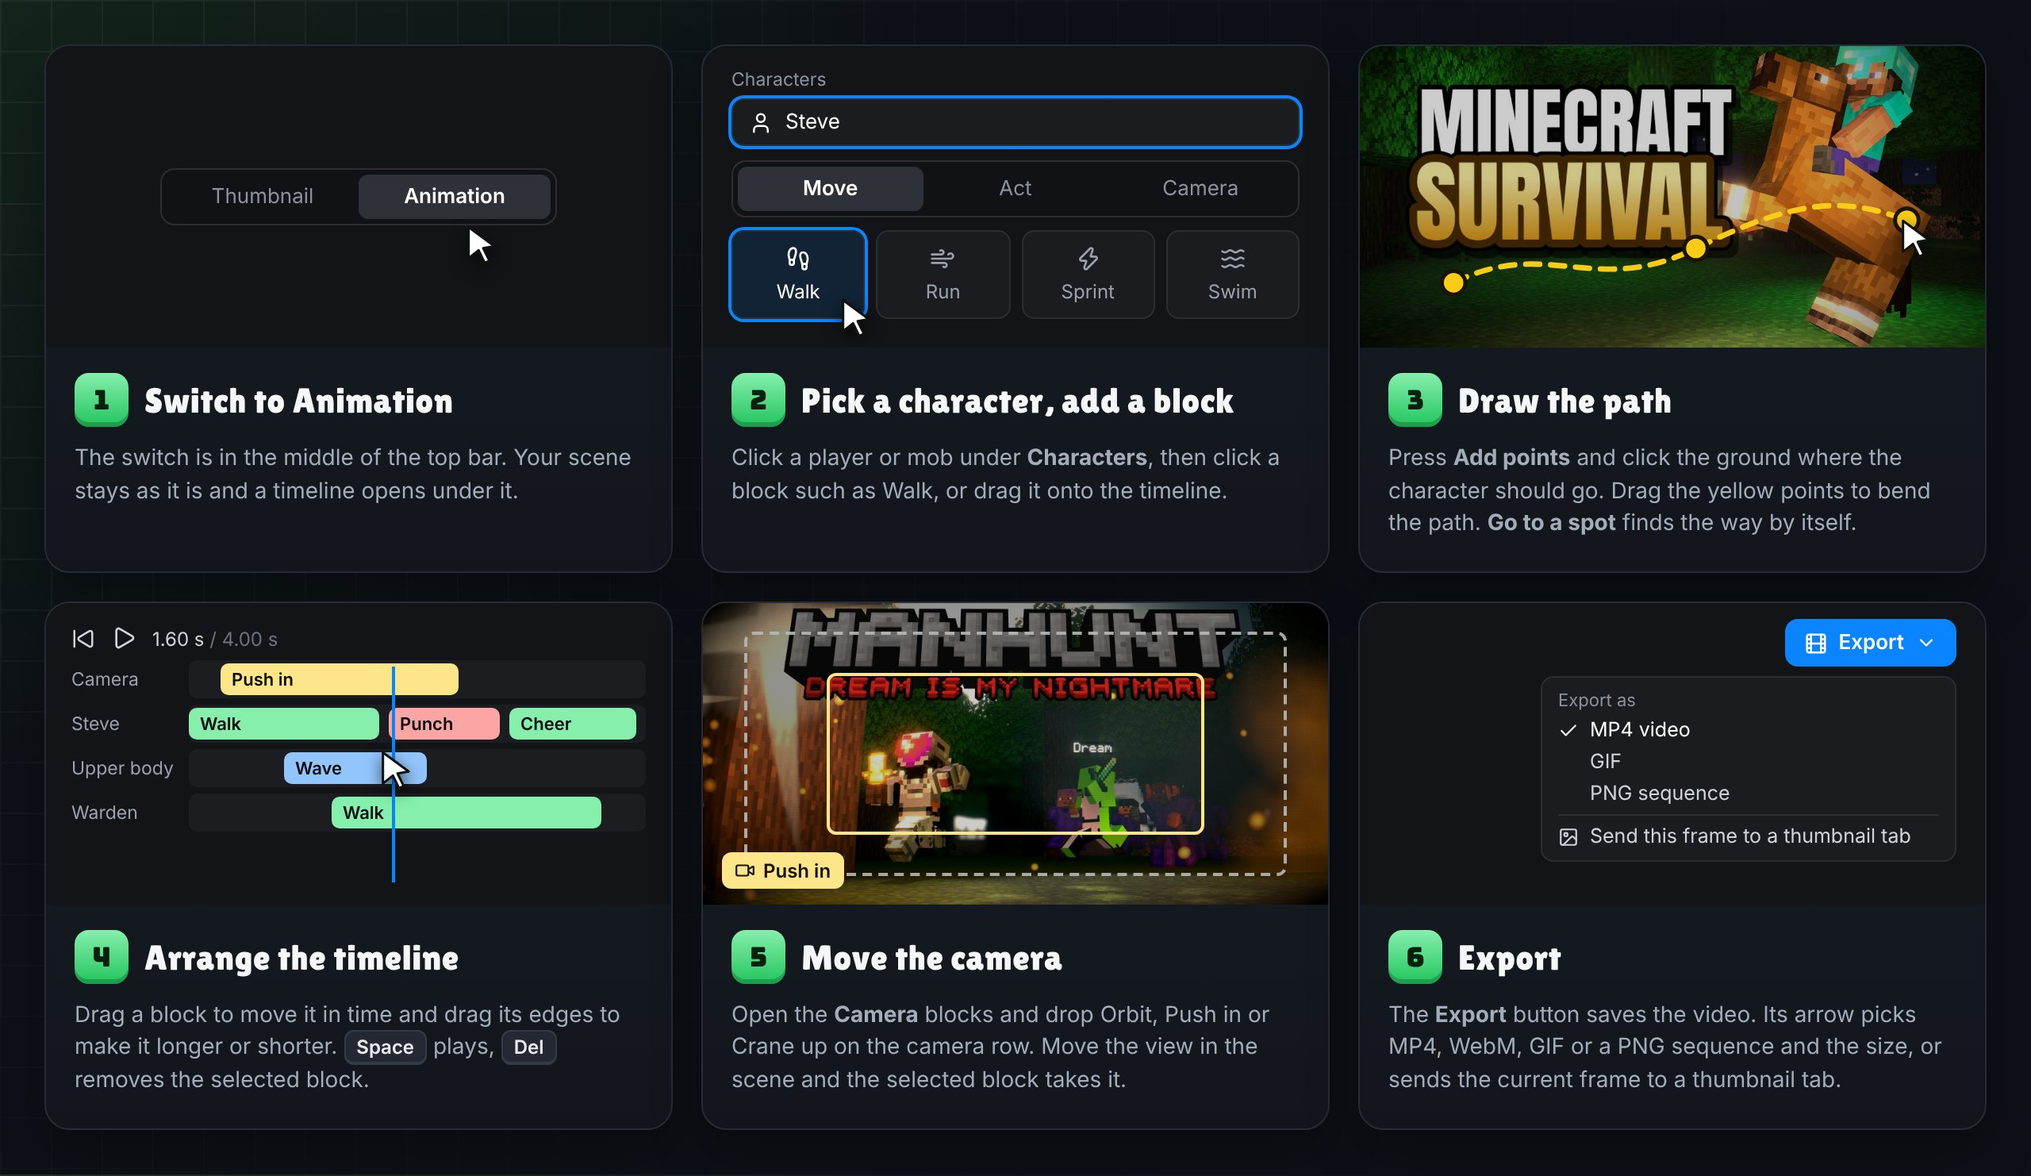
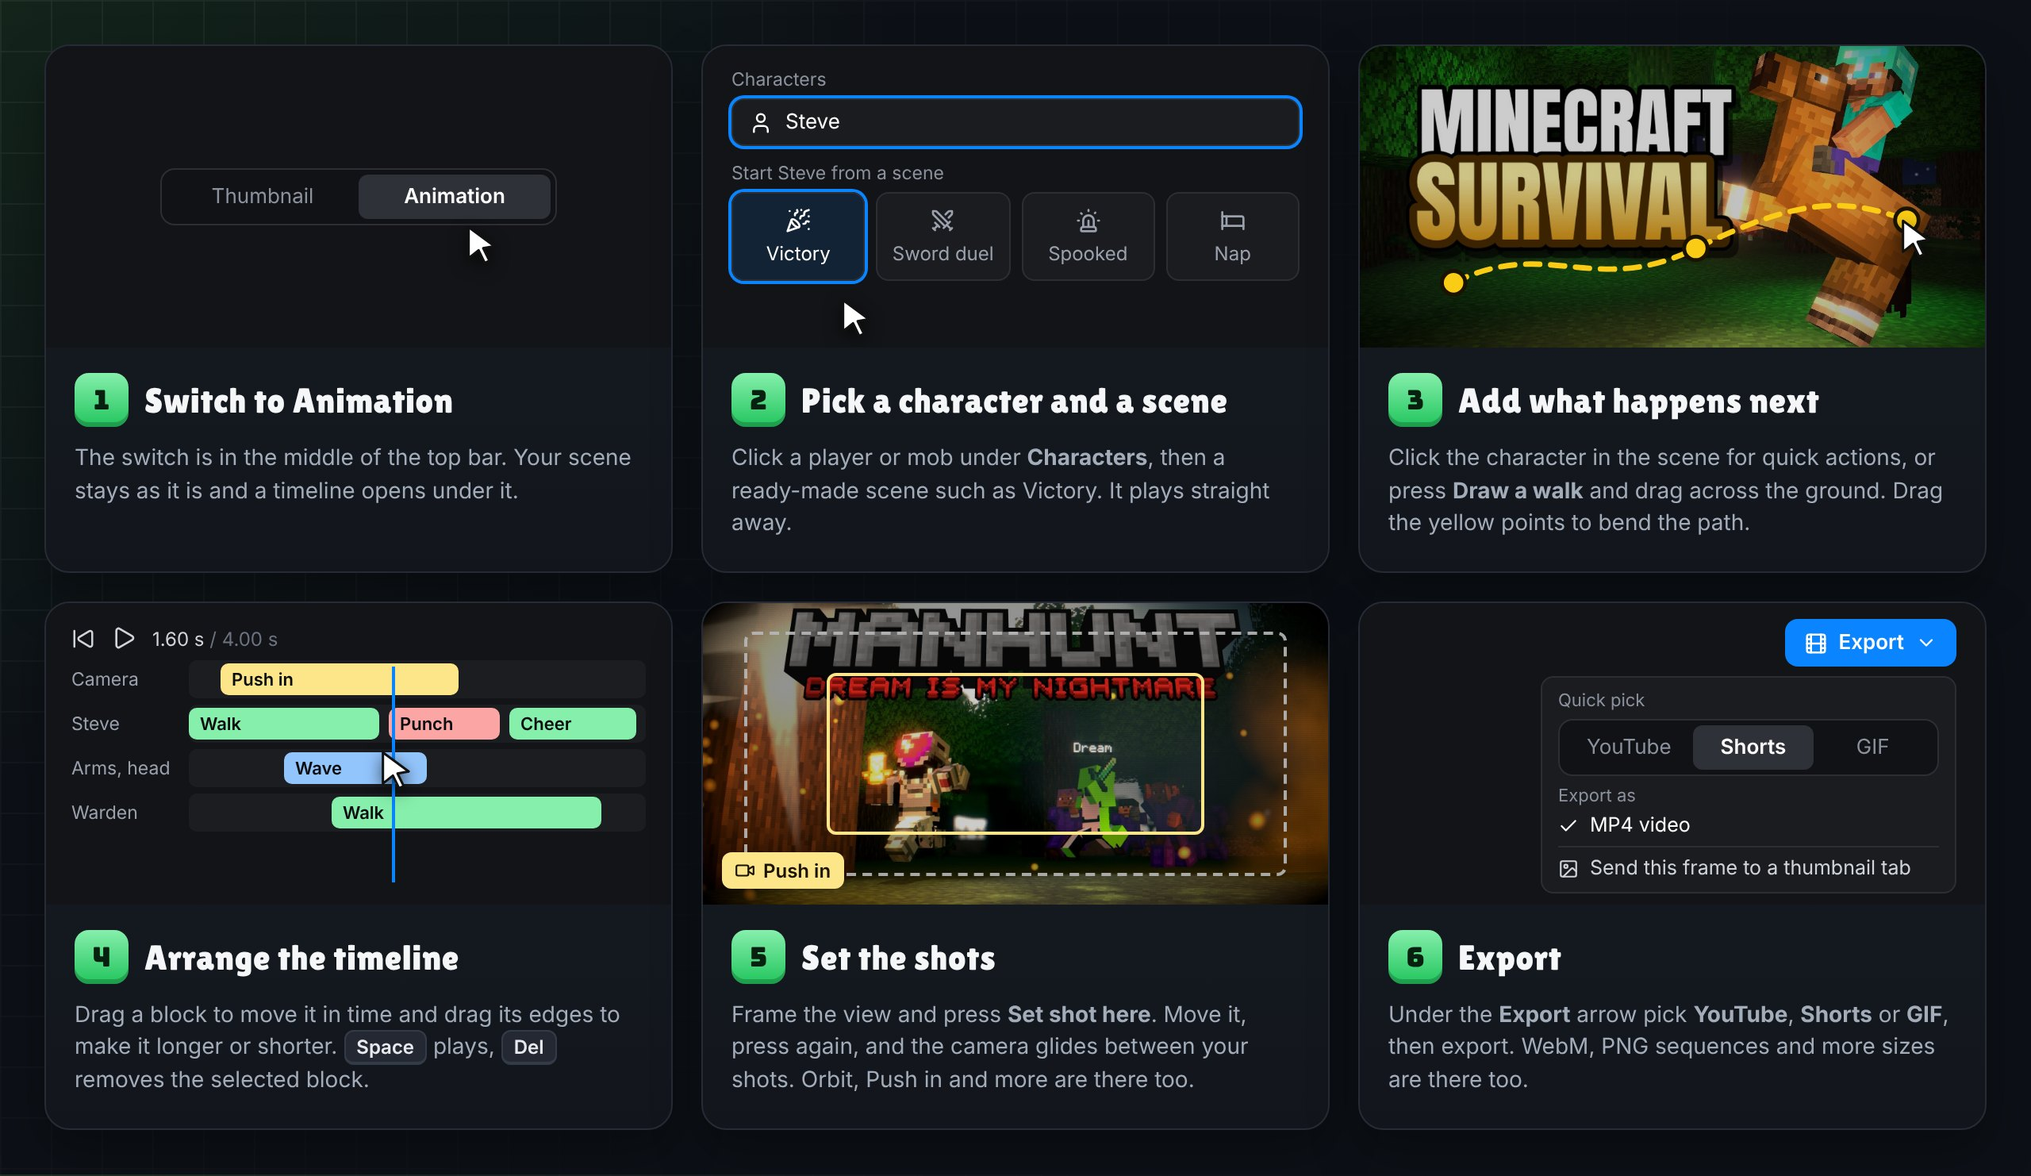
Re-audit: drop dead code and unused styles, share pointer rays, update the Animation guide
- walkKeys was a test-only wrapper (tests call locomotion); cleanSceneTracks now cleans scene tracks when a project opens instead of only running in tests
- Removed the old panel tab CSS (seg-wrap, segmented.tabs)
- One pointerRay helper and groundAt for every click and drag in the viewport
- Describe it understands lunges and spins
- README steps, feature list and the six-step graphic follow the new flow

Claude-Session: https://claude.ai/code/session_01Wm62j1Y5oFp5HGaYvJsiN2

diff --git a/src/renderer/src/components/Viewport.tsx b/src/renderer/src/components/Viewport.tsx
@@ -1273,6 +1273,17 @@ function IdleFrameloop(): null {
   return null
 }
 
+/** A ray from the camera through the pointer. */
+function pointerRay(e: MouseEvent, gl: THREE.WebGLRenderer, camera: THREE.Camera): THREE.Raycaster {
+  const rect = gl.domElement.getBoundingClientRect()
+  const r = new THREE.Raycaster()
+  r.setFromCamera(
+    new THREE.Vector2(((e.clientX - rect.left) / rect.width) * 2 - 1, -((e.clientY - rect.top) / rect.height) * 2 + 1),
+    camera
+  )
+  return r
+}
+
 /** The ground point under the pointer: the first thing hit that isn't `skip`, else the level `y`. */
 function groundAt(
   e: MouseEvent,
@@ -1281,12 +1292,7 @@ function groundAt(
   skip: string | null,
   y: number
 ): Vec3 | null {
-  const rect = gl.domElement.getBoundingClientRect()
-  const r = new THREE.Raycaster()
-  r.setFromCamera(
-    new THREE.Vector2(((e.clientX - rect.left) / rect.width) * 2 - 1, -((e.clientY - rect.top) / rect.height) * 2 + 1),
-    camera
-  )
+  const r = pointerRay(e, gl, camera)
   const targets: THREE.Object3D[] = []
   for (const [id, o] of viewport.objects) if (id !== skip && o.visible) targets.push(o)
   const hit = r.intersectObjects(targets, true).find((h) => {
@@ -1346,15 +1352,7 @@ function DrawAndRing(): ReactNode {
       const was = down.selected
       down = null
       // Which character is under the pointer, if any.
-      const rect = gl.domElement.getBoundingClientRect()
-      const r = new THREE.Raycaster()
-      r.setFromCamera(
-        new THREE.Vector2(
-          ((e.clientX - rect.left) / rect.width) * 2 - 1,
-          -((e.clientY - rect.top) / rect.height) * 2 + 1
-        ),
-        camera
-      )
+      const r = pointerRay(e, gl, camera)
       const people = useStore.getState().objects.filter(canWalk)
       let best: { id: string; d: number } | null = null
       for (const o of people) {
@@ -1438,18 +1436,7 @@ function AnimationPaths(): ReactNode {
     if (!clipId && !going) return
     const el = gl.domElement.closest('.viewport') as HTMLElement | null
     if (!el) return
-    const rayAt = (e: MouseEvent): THREE.Raycaster => {
-      const rect = gl.domElement.getBoundingClientRect()
-      const r = new THREE.Raycaster()
-      r.setFromCamera(
-        new THREE.Vector2(
-          ((e.clientX - rect.left) / rect.width) * 2 - 1,
-          -((e.clientY - rect.top) / rect.height) * 2 + 1
-        ),
-        camera
-      )
-      return r
-    }
+    const rayAt = (e: MouseEvent): THREE.Raycaster => pointerRay(e, gl, camera)
     const current = (): { objectId: string; points: Vec3[] } | null => {
       const sel = useAnim.getState().selectedClip
       const c = clipOf(sel)
@@ -1563,30 +1550,18 @@ function AnimationPaths(): ReactNode {
       // Not a selection click: the scene's own click handling never sees it.
       e.stopPropagation()
       if (!down || Math.hypot(e.clientX - down.x, e.clientY - down.y) > 4) return
-      const ray = rayAt(e)
       const owner = useAnim.getState().selectedClip?.objectId ?? useStore.getState().selectedId
-      const targets: THREE.Object3D[] = []
-      for (const [id, o] of viewport.objects) if (id !== owner && o.visible) targets.push(o)
-      const hit = ray.intersectObjects(targets, true).find((h) => {
-        for (let p: THREE.Object3D | null = h.object; p; p = p.parent) if (isHelperObject(p) || !p.visible) return false
-        return true
-      })
-      let point = hit?.point
-      if (!point) {
-        // Nothing there: the level the character stands on.
-        const level = current()?.points.at(-1)?.[1] ?? 0
-        point =
-          ray.ray.intersectPlane(new THREE.Plane(new THREE.Vector3(0, 1, 0), -level), new THREE.Vector3()) ?? undefined
-      }
+      // Nothing there: the level the character stands on.
+      const point = groundAt(e, gl, camera, owner, current()?.points.at(-1)?.[1] ?? 0)
       if (point && sending) {
         const who = useStore.getState().selectedId
         useAnim.setState({ goingTo: false })
-        if (who) goTo(who, [point.x, point.y, point.z])
+        if (who) goTo(who, point)
       } else if (point && picking) {
         const sel = useAnim.getState().selectedClip
-        if (sel) setClipReach(sel.objectId, sel.clipId, { target: [point.x, point.y, point.z] })
+        if (sel) setClipReach(sel.objectId, sel.clipId, { target: point })
         useAnim.setState({ pickingTarget: false })
-      } else if (point) addClipPoint([point.x, point.y, point.z])
+      } else if (point) addClipPoint(point)
     }
     el.addEventListener('pointerdown', onDown, true)
     el.addEventListener('click', onClick, true)

diff --git a/tests/animation.test.ts b/tests/animation.test.ts
@@ -21,7 +21,7 @@ import {
   putKey,
   sampleTrack,
   strideOf,
-  walkKeys,
+  locomotion,
   type AnimKey
 } from '@shared/animation'
 import { POSES, fullPose } from '@shared/minecraft/playerModel'
@@ -94,7 +94,7 @@ describe('gaits', () => {
   })
 })
 
-describe('walkKeys', () => {
+describe('locomotion', () => {
   const path = {
     points: [
       [0, 64, 0],
@@ -105,7 +105,7 @@ describe('walkKeys', () => {
     speed: 1,
     start: 0.5
   }
-  const keys = walkKeys(path, { kind: 'player', scale: 1, rotation: [0, 0, 0], pose: POSES.Standing })
+  const keys = locomotion(path, { kind: 'player', scale: 1, rotation: [0, 0, 0], pose: POSES.Standing }).keys
 
   it('starts at the start, ends at the end, standing still both times', () => {
     expect(keys[0].t).toBe(0.5)
@@ -130,7 +130,7 @@ describe('walkKeys', () => {
     expect(keys.at(-1)!.rotation[1]).toBeLessThan(60)
   })
   it('never moves backwards along a straight path', () => {
-    const straight = walkKeys(
+    const straight = locomotion(
       {
         ...path,
         points: [
@@ -145,7 +145,7 @@ describe('walkKeys', () => {
         rotation: [0, 0, 0],
         pose: POSES.Standing
       }
-    )
+    ).keys
     const track = { objectId: 'a', keys: straight }
     let last = -1
     for (let t = 0; t < straight.at(-1)!.t; t += 1 / 30) {
@@ -155,7 +155,7 @@ describe('walkKeys', () => {
     }
   })
   it('handles a path too short to reach full speed', () => {
-    const short = walkKeys(
+    const short = locomotion(
       {
         ...path,
         points: [
@@ -165,7 +165,7 @@ describe('walkKeys', () => {
         gait: 'sprint'
       },
       { kind: 'mob', scale: 1, rotation: [0, 0, 0] }
-    )
+    ).keys
     expect(short.at(-1)!.position[2]).toBeCloseTo(0.5, 2)
     expect(short.every((k) => Number.isFinite(k.t))).toBe(true)
   })

diff --git a/src/renderer/src/project.ts b/src/renderer/src/project.ts
@@ -3,6 +3,7 @@
 import { strFromU8, strToU8, unzipSync, zipSync } from 'fflate'
 import * as THREE from 'three'
 import { fullPose } from '@shared/minecraft/playerModel'
+import { cleanSceneTracks } from '@shared/sceneTracks'
 import type { TerrainData } from '@shared/types'
 import { viewport } from './components/Viewport'
 import { currentLookId } from './grading'
@@ -208,6 +209,9 @@ export function loadProject(bytes: Uint8Array, path: string | null): OpenedProje
   const { skyColor: legacySkyColor, ...settings } = json.settings as SceneSettings & { skyColor?: string | null }
   // The Vivid render mode became Painterly, which became Cartoon.
   if (['vivid', 'painterly'].includes(settings.renderMode as string)) settings.renderMode = 'cartoon'
+  // Scene tracks from a project made elsewhere (or an older save) keep only what still makes sense.
+  if (settings.animation?.scene)
+    settings.animation = { ...settings.animation, scene: cleanSceneTracks(settings.animation.scene) }
   useStore.setState({
     objects,
     selectedId: null,

diff --git a/src/shared/script.ts b/src/shared/script.ts
@@ -33,6 +33,8 @@ const ACTIONS: [RegExp, ClipType][] = [
   [/\b(panic(s|ked|king)?|freak(s|ed)?( out)?|scream(s|ed)?|flail(s|ed)?|screams?)\b/, 'panic'],
   [/\b(cower(s|ed|ing)?|hid(e|es)|ducks?|tremble[sd]?|shiver(s|ed)?|cringe[sd]?)\b/, 'cower'],
   [/\b(facepalm(s|ed)?|face-palm(s|ed)?)\b/, 'facepalm'],
+  [/\b(lunge[sd]?|lunging|pounce[sd]?|charge[sd]? at)\b/, 'lunge'],
+  [/\b(spin(s|ning)?|spun|twirl(s|ed)?|turns? (all the way )?around)\b/, 'spin'],
   [/\b(punch(es|ed|ing)?|jab(s|bed)?|fight(s|ing)?|box(es|ed)?)\b/, 'punch'],
   [
     /\b(slash(es|ed|ing)?|swing(s|ing)? (a |his |her |their |the )?(sword|blade|axe)|swung|attack(s|ed|ing)?|strikes?)\b/,

diff --git a/src/shared/animation.ts b/src/shared/animation.ts
@@ -679,10 +679,6 @@ export interface LocomotionResult {
  * slows to a stop in the pose it started in. Keys fall on every quarter step (contact, passing…), which is enough
  * for the smooth playback between them to reproduce the cycle, and are easy to adjust by hand afterwards.
  */
-export function walkKeys(path: AnimPath, who: WalkSubject): AnimKey[] {
-  return locomotion(path, who).keys
-}
-
 export function locomotion(path: AnimPath, who: WalkSubject): LocomotionResult {
   const g = GAITS[path.gait]
   const curve = new PathCurve(path.points)

diff --git a/tests/script.test.ts b/tests/script.test.ts
@@ -49,3 +49,10 @@ describe('parseScript', () => {
     expect(unknown).toEqual(['contemplates the void'])
   })
 })
+
+describe('new actions in a description', () => {
+  it('reads lunges and spins', () => {
+    const r = parseScript('Alex lunges, then spins', { characters: ['Alex'], places: [] })
+    expect(r.steps.map((s) => (s.kind === 'clip' ? s.type : s.kind))).toEqual(['lunge', 'spin'])
+  })
+})

diff --git a/src/renderer/src/styles.css b/src/renderer/src/styles.css
@@ -5343,18 +5343,6 @@ button {
   text-transform: none;
   color: var(--text-2);
 }
-.animate-panel .seg-wrap {
-  position: sticky;
-  top: 0;
-  z-index: 2;
-  padding: 2px 0;
-  background: var(--bg-panel);
-}
-.animate-panel .segmented.tabs button {
-  font-size: 12px;
-  padding: 6px 4px;
-  white-space: nowrap;
-}
 .animate-panel .anim-characters {
   gap: 0;
   border-radius: 12px;

diff --git a/docs/FEATURES.md b/docs/FEATURES.md
@@ -4,7 +4,7 @@
 
 | Area                   | What works                                                                                                                                                                                                                                                                                                                                                                                                                                                                                                                                                                                                                                                                                                                                         |
 | ---------------------- | -------------------------------------------------------------------------------------------------------------------------------------------------------------------------------------------------------------------------------------------------------------------------------------------------------------------------------------------------------------------------------------------------------------------------------------------------------------------------------------------------------------------------------------------------------------------------------------------------------------------------------------------------------------------------------------------------------------------------------------------------- |
-| **Animation (beta)**   | A timeline over the scene: walk, run, sprint and action blocks along paths (with pathfinding), camera moves, changes to the sun, weather, look and titles over time, sound with beat markers, presets (`.thumbpack`), Blockbench import and glTF export. Exports MP4/WebM, GIF, PNG sequences and characters on a transparent background, with motion blur.                                                                                                                                                                                                                                                                                                                                                                                        |
+| **Animation (beta)**   | A timeline over the scene: ready-made scene starters, walk, run, sprint and action blocks along drawn paths (with pathfinding), Pose blocks that hold, quick actions on a click, camera moves and shots you set, changes to the sun, weather, look and titles over time, sound with beat markers, presets (`.thumbpack`), Blockbench import and glTF export. Exports MP4/WebM, GIF, PNG sequences and characters on a transparent background, with motion blur.                                                                                                                                                                                                                                                                                    |
 | **Resource packs**     | Zip or folder packs stacked over the game's textures and models, top pack first.                                                                                                                                                                                                                                                                                                                                                                                                                                                                                                                                                                                                                                                                   |
 | **Photoshop export**   | A layered `.psd`: sky, terrain, and each build, mob, player, title and sticker on its own layer, in folders by kind. Layers are rendered with effects off; each effect has its own folder with its light on an Add layer, so hiding it takes its glow off everything.                                                                                                                                                                                                                                                                                                                                                                                                                                                                              |
 | **Biome scenes**       | Pick a dimension (Overworld / Nether / End) and any biome from your game version, optionally a seed and an area size, and generate.                                                                                                                                                                                                                                                                                                                                                                                                                                                                                                                                                                                                                |

diff --git a/README.md b/README.md
@@ -86,27 +86,29 @@ Switch from **Thumbnail** to **Animation** in the top bar and the same scene get
 
 ### How it works
 
-![Six steps: 1. Switch to Animation in the top bar. 2. Pick a character and add a block such as Walk. 3. Draw the path by clicking the ground. 4. Arrange the blocks on the timeline. 5. Move the camera with camera blocks. 6. Export a video.](docs/images/readme/animation-steps.jpg)
+![Six steps: 1. Switch to Animation in the top bar. 2. Pick a character and a ready-made scene. 3. Click the character for quick actions or draw a walk. 4. Arrange the blocks on the timeline. 5. Set camera shots. 6. Export for YouTube, Shorts or GIF.](docs/images/readme/animation-steps.jpg)
 
 1. **Switch to Animation.** The switch sits in the middle of the top bar. Your scene stays as it is and a timeline
-   opens under it.
-2. **Pick a character, add a block.** Click a player or mob under **Characters**, then click a block (Walk, Run,
-   Punch, Cheer and so on) or drag it onto the timeline. **Move** blocks travel, **Act** blocks play on the spot.
-3. **Draw the path.** For a moving block, press **Add points** and click the ground where the character should go
-   (Enter or Esc stops). Drag the yellow points to bend the path, or use **Go to a spot** and the character finds
-   its own way.
+   opens under it. A short guide shows the first time.
+2. **Pick a character and a scene.** Click a player or mob under **Characters**, then a ready-made scene such as
+   Victory, Sword duel or Nap. It plays straight away. Or type what happens ("Alex walks to the cave, panics,
+   runs") and press **Make it**.
+3. **Add what happens next.** Click the character in the scene for quick actions, or pick from the
+   **What happens next?** list (Move, Everyday, Feelings, Fight, Work, with a search box). Press **Draw a walk**
+   and drag across the ground to draw where it goes, or **Go to a spot** and it finds its own way.
 4. **Arrange the timeline.** Drag a block to move it in time and drag its edges to make it longer or shorter.
-   **Space** plays and pauses, **Delete** removes the selected block, and Ctrl Z undoes.
-5. **Move the camera.** Under **Camera**, drop Orbit, Push in, Crane up or another move on the camera row. Move the
-   view in the scene and the selected camera block takes it.
-6. **Export.** The **Export** button saves the video. Its arrow picks MP4, WebM, GIF or a PNG sequence and the
-   size, or sends the current frame to a thumbnail tab.
+   **Space** plays and pauses, **Delete** removes the selected block, and Ctrl Z undoes anything.
+5. **Set the shots.** Frame the view and press **Set shot here**. Move it and press again: the camera glides
+   between your shots. Orbit, Push in, Crane up and more are there too.
+6. **Export.** Under the **Export** arrow pick **YouTube**, **Shorts** or **GIF**, then export. Shorts shows the
+   tall frame and where YouTube's buttons sit.
 
 ### What it can do
 
-- **Blocks, not keyframes.** Drop Walk, Run, Sprint, Punch, Cheer and other blocks on a character's lane. Draw the
-  path by clicking the ground, or use **Go to** and the character finds its own way across the terrain.
-- **Camera moves.** Orbit, push in, crane up, whip pan, fly-through and more on the camera's own lane.
+- **Blocks, not keyframes.** Walk, Run, Punch, Cheer and 30 more on a character's row. Each action can repeat,
+  play once or freeze at the end, and ease in snappy, smooth or gentle.
+- **Poses that hold.** Add a **Pose** block and pose the character: it holds that pose for as long as the block.
+- **Camera moves.** Shots you set, plus orbit, push in, crane up, whip pan, fly-through and more on the camera row.
 - **The scene changes too.** Sun, weather, the look, focus and titles (typewriter, counter) can change over time.
 - **Sound.** Add a track and line blocks up with its beats; characters can talk along with it.
 - **Export.** MP4 or WebM, GIF, a PNG sequence, or just the characters on a transparent background, with motion
